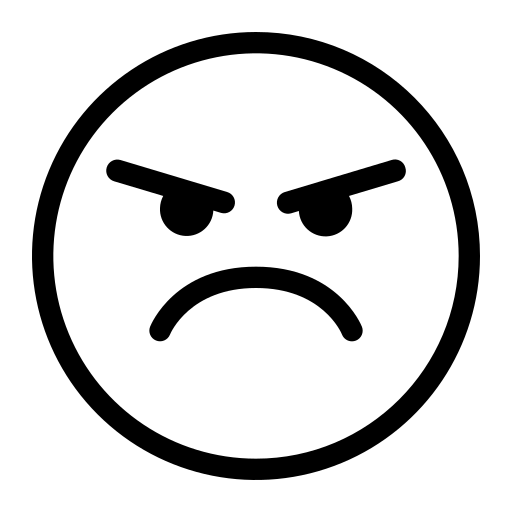
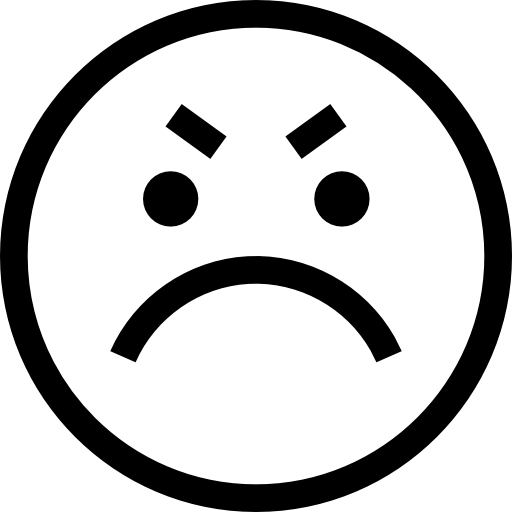
Add stress level survey to daily checkin

diff --git a/src/api/auth.js b/src/api/auth.js
@@ -1,47 +1,49 @@
-import { getAuth, createUserWithEmailAndPassword, signInWithEmailAndPassword, onAuthStateChanged, signOut  } from "firebase/auth";
+import {
+	getAuth,
+	createUserWithEmailAndPassword,
+	signInWithEmailAndPassword,
+	onAuthStateChanged,
+	signOut,
+} from 'firebase/auth';
 
-import db from 'db'
+import db from 'db';
 
+const createUserProfile = userProfile =>
+	db.collection('profiles').doc(userProfile.uid).set(userProfile);
 
-const createUserProfile = (userProfile) => 
-  db.collection('profiles')
-    .doc(userProfile.uid)
-    .set(userProfile)
+export const register = async ({ email, password, fullName }) => {
+	const auth = getAuth();
+	try {
+		const res = await createUserWithEmailAndPassword(auth, email, password);
+		const { user } = res;
+		const userProfile = { uid: user.uid, fullName, email, services: [], description: '' };
+		await createUserProfile(userProfile);
+		return userProfile;
+	} catch (error) {
+		return Promise.reject(error.message);
+	}
+};
 
-
-export const register = async ({email, password, fullName}) => {
-    const auth = getAuth();
-    try {
-        const res = await createUserWithEmailAndPassword(auth, email, password)
-        const { user } = res
-        const userProfile = { uid: user.uid, fullName, email, services: [], description: ''}
-        await createUserProfile(userProfile)
-        return userProfile
-    } catch(error){
-        return Promise.reject(error.message)
-    }
-}
-
-export const login = async ({email, password}) => {
-    const auth = getAuth();
-    signInWithEmailAndPassword(auth, email, password)
-        .catch(error => Promise.reject(error.message))
-}
+export const login = async ({ email, password }) => {
+	const auth = getAuth();
+	signInWithEmailAndPassword(auth, email, password).catch(error => Promise.reject(error.message));
+};
 
 export const logout = () => {
-    const auth = getAuth();
-    signOut(auth)
-}
+	const auth = getAuth();
+	signOut(auth);
+};
 
-export const onAuthStateChange = (onAuthCallback) => {
-    const auth = getAuth();
-    onAuthStateChanged(auth, onAuthCallback)
-}
+export const onAuthStateChange = onAuthCallback => {
+	const auth = getAuth();
+	onAuthStateChanged(auth, onAuthCallback);
+};
 
 export const getUserProfile = uid =>
-  db.collection('profiles')
-    .doc(uid)
-    .get()
-    .then(snapshot => ({uid, ...snapshot.data()}))
+	db
+		.collection('profiles')
+		.doc(uid)
+		.get()
+		.then(snapshot => ({ uid, ...snapshot.data() }));
 
 // export const createUserRef = (uid) => db.doc('profiles/' + uid)

diff --git a/src/db/index.js b/src/db/index.js
@@ -2,19 +2,17 @@ import firebase from 'firebase/compat/app';
 import 'firebase/compat/firestore';
 
 const db = firebase
-  .initializeApp(
-    {
-      apiKey: "AIzaSyAsBl9fCyC0OL9Mhd3DQd_zzNp-vXmVqVQ",
-      authDomain: "wellbeing-49fed.firebaseapp.com",
-      projectId: "wellbeing-49fed",
-      storageBucket: "wellbeing-49fed.appspot.com",
-      messagingSenderId: "533478110043",
-      appId: "1:533478110043:web:bac15a8264558a8678607e"
-    }
-  )
-  .firestore()
+	.initializeApp({
+		apiKey: 'AIzaSyAsBl9fCyC0OL9Mhd3DQd_zzNp-vXmVqVQ',
+		authDomain: 'wellbeing-49fed.firebaseapp.com',
+		projectId: 'wellbeing-49fed',
+		storageBucket: 'wellbeing-49fed.appspot.com',
+		messagingSenderId: '533478110043',
+		appId: '1:533478110043:web:bac15a8264558a8678607e',
+	})
+	.firestore();
 
-export default db
+export default db;
 
-const { Timestamp } = firebase.firestore
-export { Timestamp }
+const { Timestamp } = firebase.firestore;
+export { Timestamp };

diff --git a/src/data/survey.js b/src/data/survey.js
@@ -62,8 +62,17 @@ const surveyJSON = {
 							imageLink: './images/angry.png',
 						},
 					],
-					imageHeight: '150',
-					imageWidth: '150',
+					imageHeight: '100',
+					imageWidth: '100',
+					isRequired: true,
+				},
+				{
+					name: 'stress',
+					type: 'rating',
+					title: 'How would you rate your stress level today?',
+					minRateDescription: 'Not Stressed',
+					maxRateDescription: 'Extremely Stressed',
+					rateMax: 10,
 					isRequired: true,
 				},
 			],
